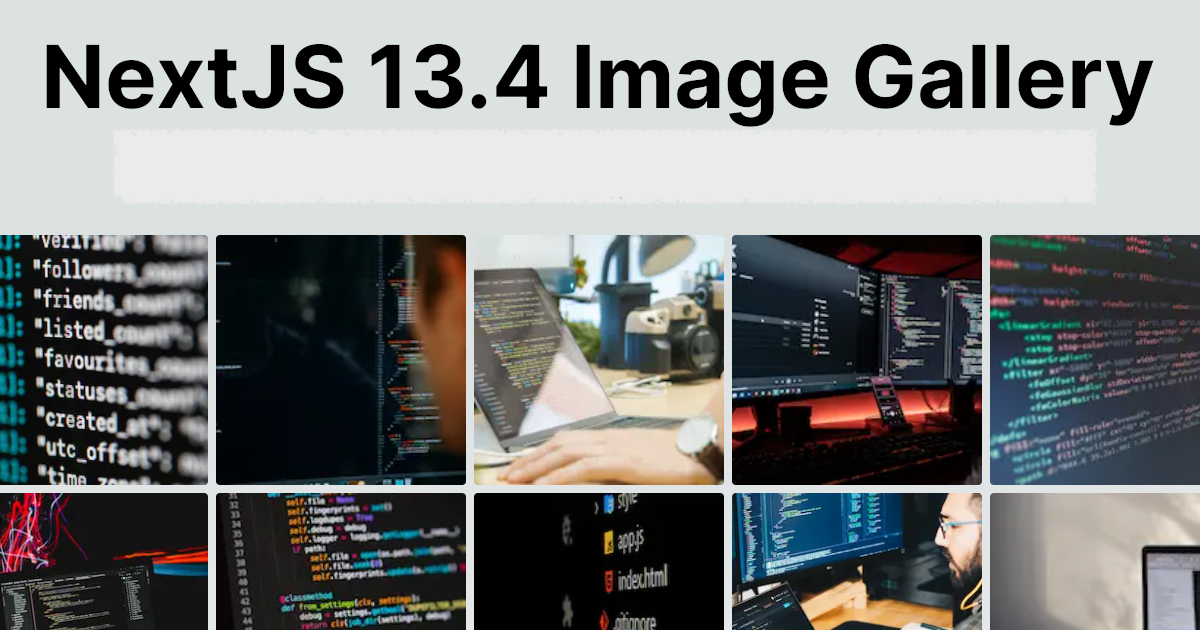
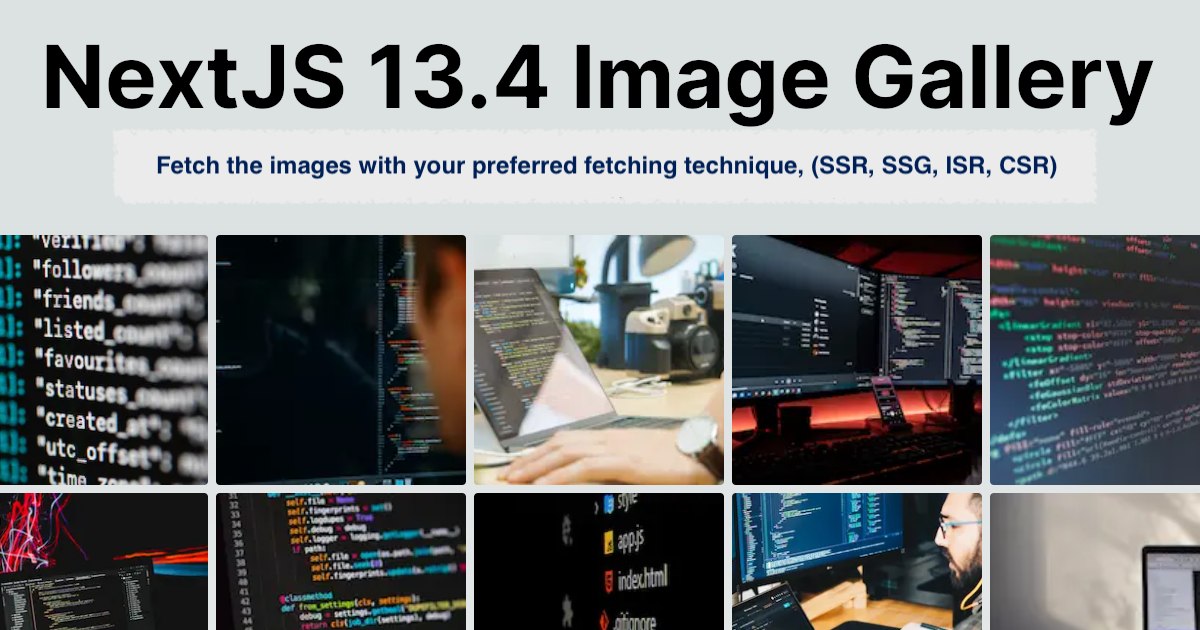
edit readme and OG

Changed region(s): [[0.1233, 0.2413, 0.8942, 0.3016]]

diff --git a/README.md b/README.md
@@ -2,7 +2,11 @@
 
 > Learning SSR, ISR, SSG, CSR etc, with new app directory and other new features.
 
+---
+
 Random Images without api key: [Here](https://allegra9.medium.com/unsplash-without-api-ab2dcdb503a0) (But this doesn't provide json)
+
+---
 
 Here we are using [This API](https://picsum.photos/)
 
@@ -10,6 +14,8 @@ Here we are using [This API](https://picsum.photos/)
 - With page number & limit: https://picsum.photos/v2/list?page=2&limit=100
 - Get image **JSON** by id: https://picsum.photos/id/0/info
 - Get image of specific id: https://picsum.photos/id/106/2592/1728
+
+---
 
 Next 13.4+ features covered:
 
@@ -32,6 +38,9 @@ Next 13.4+ features covered:
 1. not-found, error and layout files
 1. API routes (GET, POST, PATCH, DELETE requests)
 1. nextjs config
+1. Social media OG image (opengraph-image.png)
+
+---
 
 Others:
 
